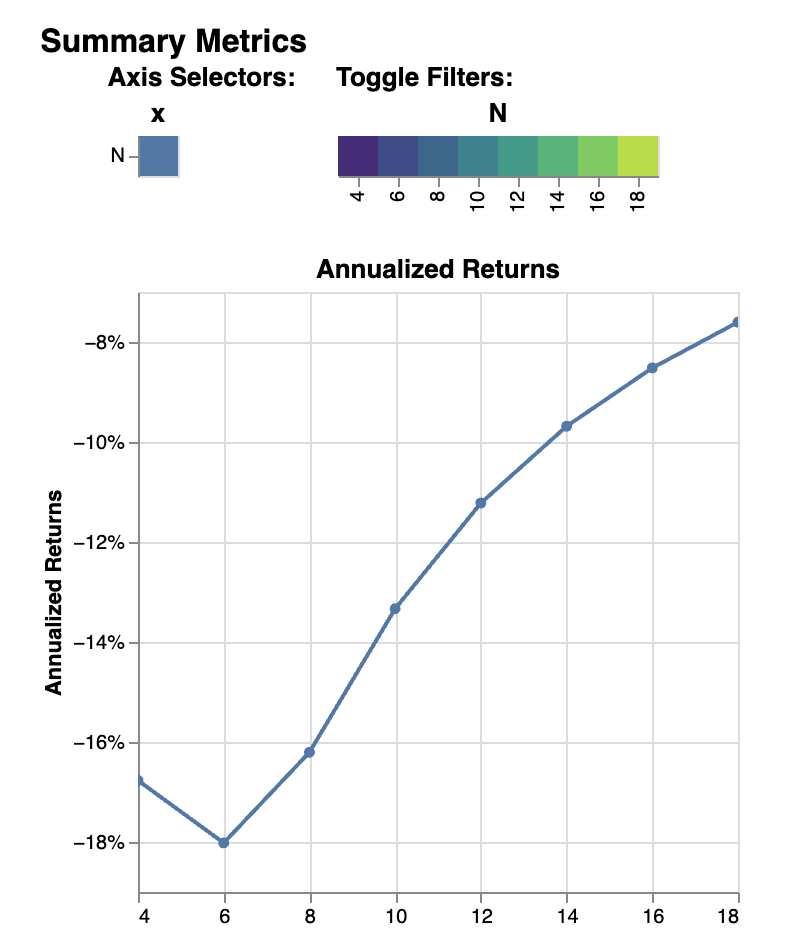
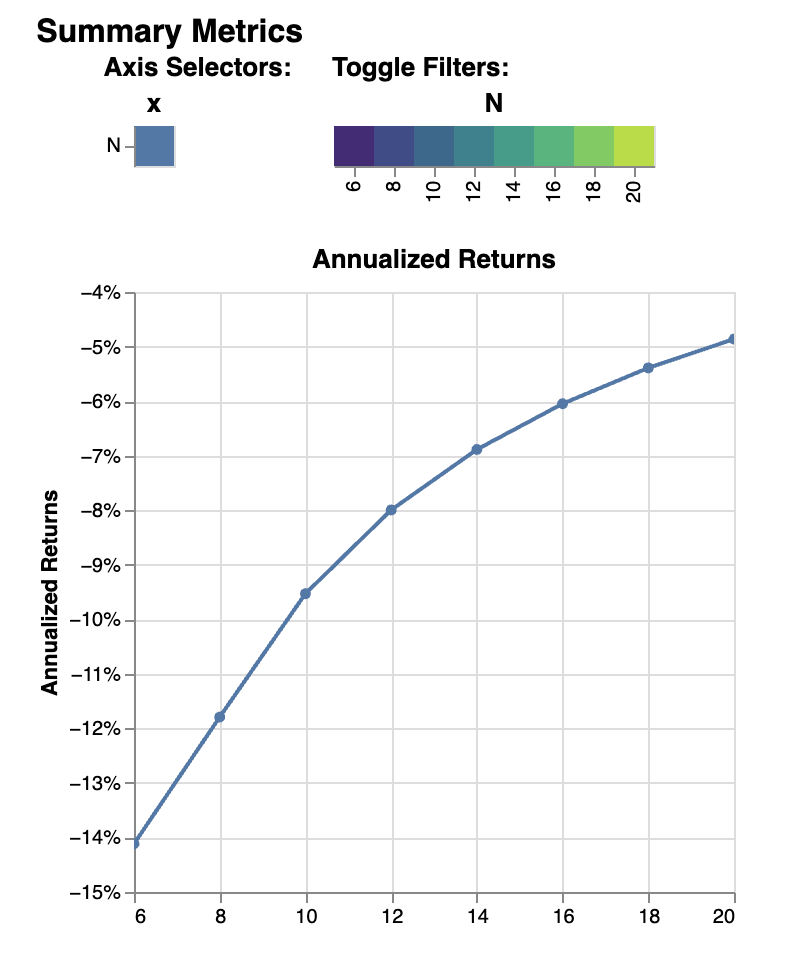
modify: docs update pics

diff --git a/docs/quickstart.rst b/docs/quickstart.rst
@@ -315,64 +315,64 @@ multiplied by 10**18.::
 To simlate controller's parameters, such as ``loan_discount`` and ``liquidation_discount``, use ``sim_mode="controller"``::
 
     >>> res = crvusdsim.autosim(pool="wstETH", sim_mode="controller",
-    >>>    loan_discount=[int(0.09 * 10**18), int(0.10 * 10**18), int(0.11 * 10**18), int(0.12 * 10**18)],
+    >>>    loan_discount=[int(0.07 * 10**18), int(0.08 * 10**18), int(0.09 * 10**18), int(0.10 * 10**18)],
     >>>    liquidation_discount=[int(0.04 * 10**18), int(0.06 * 10**18)])
 
-    [INFO][13:50:55][crvusdsim.pipelines.simple]-7441: Simulating mode: controller
-    [INFO][13:50:59][curvesim.price_data.sources]-7441: Fetching CoinGecko price data...
-    [INFO][13:51:15][crvusdsim.templates.Strategy]-9436: [Curve.fi Stablecoin wstETH] Simulating with {'loan_discount': 120000000000000000, 'liquidation_discount': 60000000000000000}
-    [INFO][13:51:15][crvusdsim.templates.Strategy]-9431: [Curve.fi Stablecoin wstETH] Simulating with {'loan_discount': 110000000000000000, 'liquidation_discount': 40000000000000000}
-    [INFO][13:51:16][crvusdsim.templates.Strategy]-9432: [Curve.fi Stablecoin wstETH] Simulating with {'loan_discount': 100000000000000000, 'liquidation_discount': 60000000000000000}
-    [INFO][13:51:16][crvusdsim.templates.Strategy]-9430: [Curve.fi Stablecoin wstETH] Simulating with {'loan_discount': 90000000000000000, 'liquidation_discount': 40000000000000000}
-    [INFO][13:51:16][crvusdsim.templates.Strategy]-9433: [Curve.fi Stablecoin wstETH] Simulating with {'loan_discount': 100000000000000000, 'liquidation_discount': 40000000000000000}
-    [INFO][13:51:16][crvusdsim.templates.Strategy]-9435: [Curve.fi Stablecoin wstETH] Simulating with {'loan_discount': 120000000000000000, 'liquidation_discount': 40000000000000000}
-    [INFO][13:51:16][crvusdsim.templates.Strategy]-9429: [Curve.fi Stablecoin wstETH] Simulating with {'loan_discount': 90000000000000000, 'liquidation_discount': 60000000000000000}
-    [INFO][13:51:16][crvusdsim.templates.Strategy]-9434: [Curve.fi Stablecoin wstETH] Simulating with {'loan_discount': 110000000000000000, 'liquidation_discount': 60000000000000000}
+    [INFO][14:56:36][crvusdsim.pipelines.simple]-7441: Simulating mode: controller
+    [INFO][14:56:36][curvesim.price_data.sources]-7441: Fetching CoinGecko price data...
+    [INFO][14:57:15][crvusdsim.templates.Strategy]-41713: [Curve.fi Stablecoin wstETH] Simulating with {'loan_discount': 80000000000000000, 'liquidation_discount': 60000000000000000}
+    [INFO][14:57:16][crvusdsim.templates.Strategy]-41710: [Curve.fi Stablecoin wstETH] Simulating with {'loan_discount': 70000000000000008, 'liquidation_discount': 40000000000000000}
+    [INFO][14:57:16][crvusdsim.templates.Strategy]-41712: [Curve.fi Stablecoin wstETH] Simulating with {'loan_discount': 80000000000000000, 'liquidation_discount': 40000000000000000}
+    [INFO][14:57:16][crvusdsim.templates.Strategy]-41714: [Curve.fi Stablecoin wstETH] Simulating with {'loan_discount': 90000000000000000, 'liquidation_discount': 40000000000000000}
+    [INFO][14:57:16][crvusdsim.templates.Strategy]-41711: [Curve.fi Stablecoin wstETH] Simulating with {'loan_discount': 70000000000000008, 'liquidation_discount': 60000000000000000}
+    [INFO][14:57:16][crvusdsim.templates.Strategy]-41716: [Curve.fi Stablecoin wstETH] Simulating with {'loan_discount': 90000000000000000, 'liquidation_discount': 60000000000000000}
+    [INFO][14:57:16][crvusdsim.templates.Strategy]-41717: [Curve.fi Stablecoin wstETH] Simulating with {'loan_discount': 100000000000000000, 'liquidation_discount': 60000000000000000}
+    [INFO][14:57:16][crvusdsim.templates.Strategy]-41715: [Curve.fi Stablecoin wstETH] Simulating with {'loan_discount': 100000000000000000, 'liquidation_discount': 40000000000000000}
 
     >>> res.summary()
     
     metric	averange_user_health	liquidations_count	liquidation_volume
     stat	mean	max	sum
-    0	0.039849	0.0	0.000000e+00
-    1	0.018384	14.0	1.510470e+10
-    2	0.051448	0.0	0.000000e+00
-    3	0.029543	0.0	0.000000e+00
-    4	0.063286	0.0	0.000000e+00
-    5	0.041135	0.0	0.000000e+00
-    6	0.075394	0.0	0.000000e+00
-    7	0.052990	0.0	0.000000e+00
+    0	0.017705	14.0	1.835876e+10
+    1	0.003404	20.0	1.097029e+11
+    2	0.028522	0.0	0.000000e+00
+    3	0.009494	20.0	6.023163e+10
+    4	0.039849	0.0	0.000000e+00
+    5	0.018384	14.0	1.510470e+10
+    6	0.051448	0.0	0.000000e+00
+    7	0.029543	0.0	0.000000e+00
 
     >>> res.summary(full=True)
 
         loan_discount	liquidation_discount	averange_user_health mean	liquidations_count max	liquidation_volume sum
-    0	0.09	0.04	0.039849	0.0	0.000000e+00
-    1	0.09	0.06	0.018384	14.0	1.510470e+10
-    2	0.10	0.04	0.051448	0.0	0.000000e+00
-    3	0.10	0.06	0.029543	0.0	0.000000e+00
-    4	0.11	0.04	0.063286	0.0	0.000000e+00
-    5	0.11	0.06	0.041135	0.0	0.000000e+00
-    6	0.12	0.04	0.075394	0.0	0.000000e+00
-    7	0.12	0.06	0.052990	0.0	0.000000e+00
+    0	0.07	0.04	0.017705	14.0	1.835876e+10
+    1	0.07	0.06	0.003404	20.0	1.097029e+11
+    2	0.08	0.04	0.028522	0.0	0.000000e+00
+    3	0.08	0.06	0.009494	20.0	6.023163e+10
+    4	0.09	0.04	0.039849	0.0	0.000000e+00
+    5	0.09	0.06	0.018384	14.0	1.510470e+10
+    6	0.10	0.04	0.051448	0.0	0.000000e+00
+    7	0.10	0.06	0.029543	0.0	0.000000e+00
 
     >>> res.data()
 
-    run	timestamp	averange_user_health	liquidations_count	liquidation_volume
-    0	0	2023-09-29 23:30:00+00:00	0.059287	0.0	0.0
-    1	0	2023-09-29 23:38:34+00:00	0.059286	0.0	0.0
-    2	0	2023-09-29 23:47:08+00:00	0.059284	0.0	0.0
-    3	0	2023-09-29 23:55:42+00:00	0.059281	0.0	0.0
-    4	0	2023-09-30 00:04:17+00:00	0.059277	0.0	0.0
+    	run	timestamp	averange_user_health	liquidations_count	liquidation_volume
+    0	0	2023-09-29 23:30:00+00:00	0.036510	0.0	0.0
+    1	0	2023-09-29 23:38:34+00:00	0.036509	0.0	0.0
+    2	0	2023-09-29 23:47:08+00:00	0.036507	0.0	0.0
+    3	0	2023-09-29 23:55:42+00:00	0.036504	0.0	0.0
+    4	0	2023-09-30 00:04:17+00:00	0.036500	0.0	0.0
     ...	...	...	...	...	...
-    81987	7	2023-11-29 22:55:42+00:00	0.032402	0.0	0.0
-    81988	7	2023-11-29 23:04:17+00:00	0.032401	0.0	0.0
-    81989	7	2023-11-29 23:12:51+00:00	0.032401	0.0	0.0
-    81990	7	2023-11-29 23:21:25+00:00	0.032400	0.0	0.0
-    81991	7	2023-11-29 23:30:00+00:00	0.032400	0.0	0.0
-    81992 rows x 5 columns
+    81987	7	2023-11-29 22:55:42+00:00	0.009380	0.0	0.0
+    81988	7	2023-11-29 23:04:17+00:00	0.009379	0.0	0.0
+    81989	7	2023-11-29 23:12:51+00:00	0.009379	0.0	0.0
+    81990	7	2023-11-29 23:21:25+00:00	0.009379	0.0	0.0
+    81991	7	2023-11-29 23:30:00+00:00	0.009378	0.0	0.0
+    81992 rows × 5 columns
 
     >>> res.data(full=True)
 
-    	loan_discount	liquidation_discount	run	timestamp	averange_user_health	liquidations_count	liquidation_volume
+        loan_discount	liquidation_discount	run	timestamp	averange_user_health	liquidations_count	liquidation_volume
     0	0.09	0.04	0	2023-09-29 23:30:00+00:00	0.059287	0.0	0.0
     1	0.09	0.04	0	2023-09-29 23:38:34+00:00	0.059286	0.0	0.0
     2	0.09	0.04	0	2023-09-29 23:47:08+00:00	0.059284	0.0	0.0
@@ -384,7 +384,7 @@ To simlate controller's parameters, such as ``loan_discount`` and ``liquidation_
     81989	0.12	0.06	7	2023-11-29 23:12:51+00:00	0.032401	0.0	0.0
     81990	0.12	0.06	7	2023-11-29 23:21:25+00:00	0.032400	0.0	0.0
     81991	0.12	0.06	7	2023-11-29 23:30:00+00:00	0.032400	0.0	0.0
-    81992 rows x 7 columns
+    81992 rows × 7 columns
 
 
 
